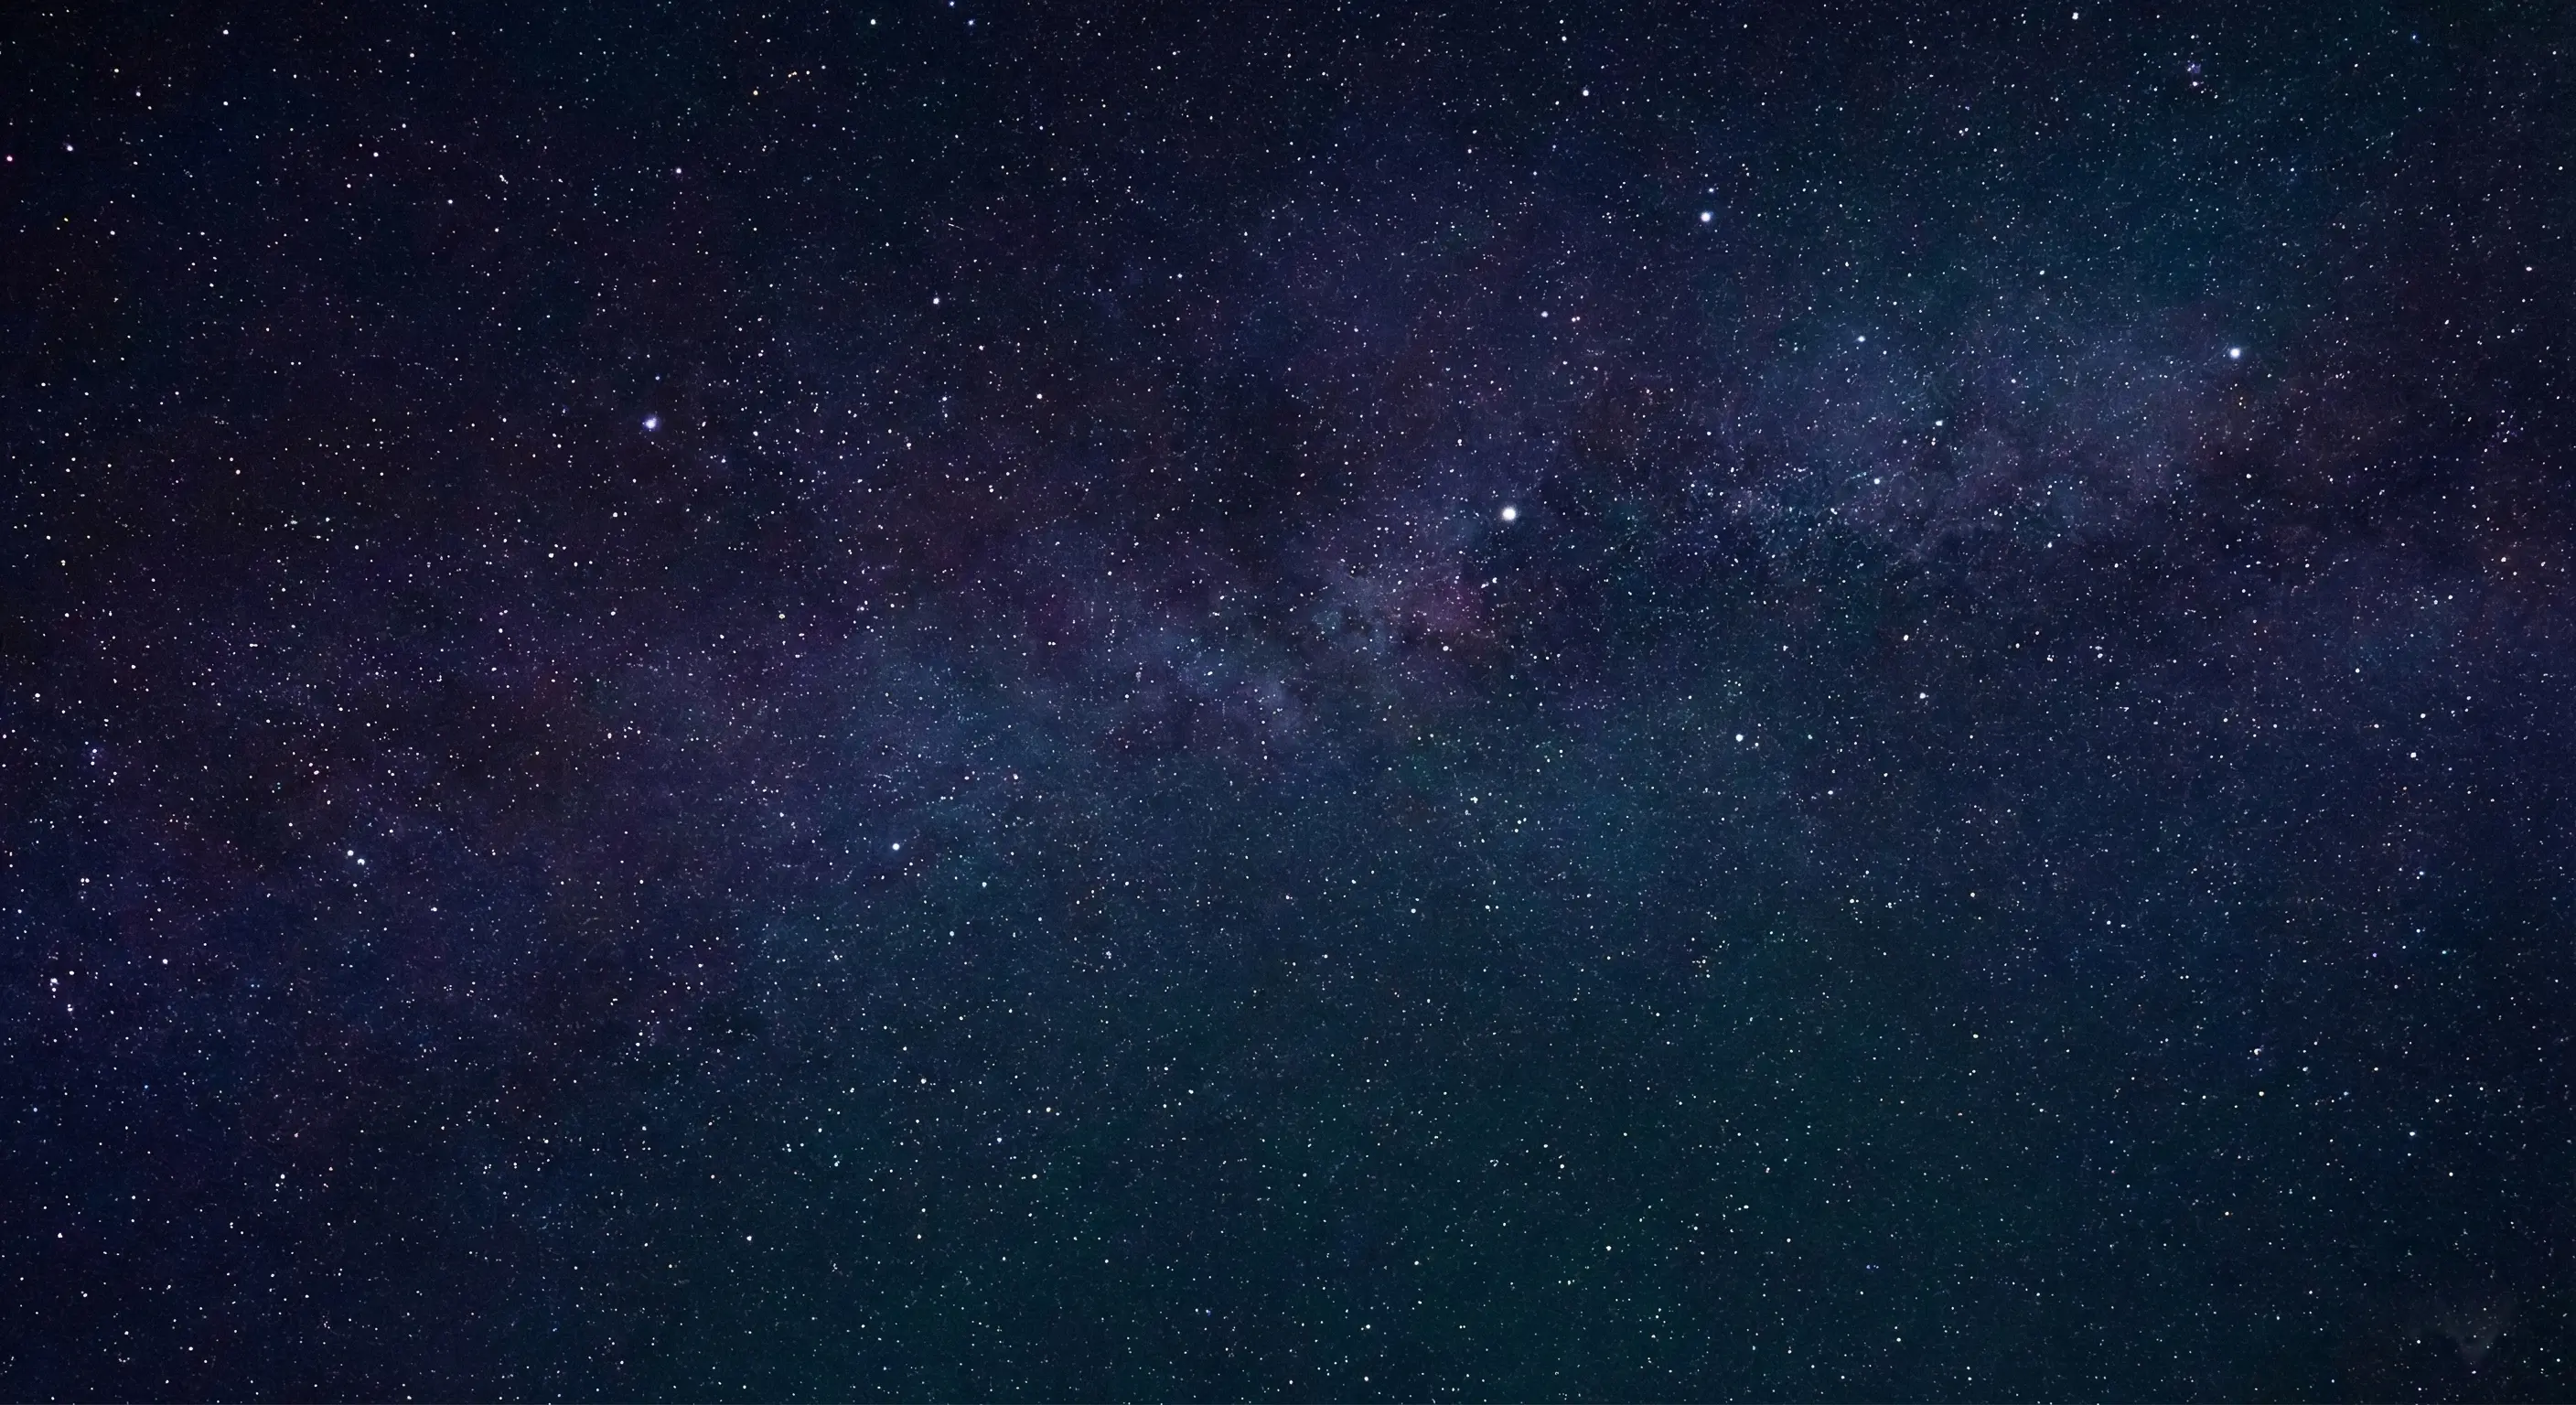
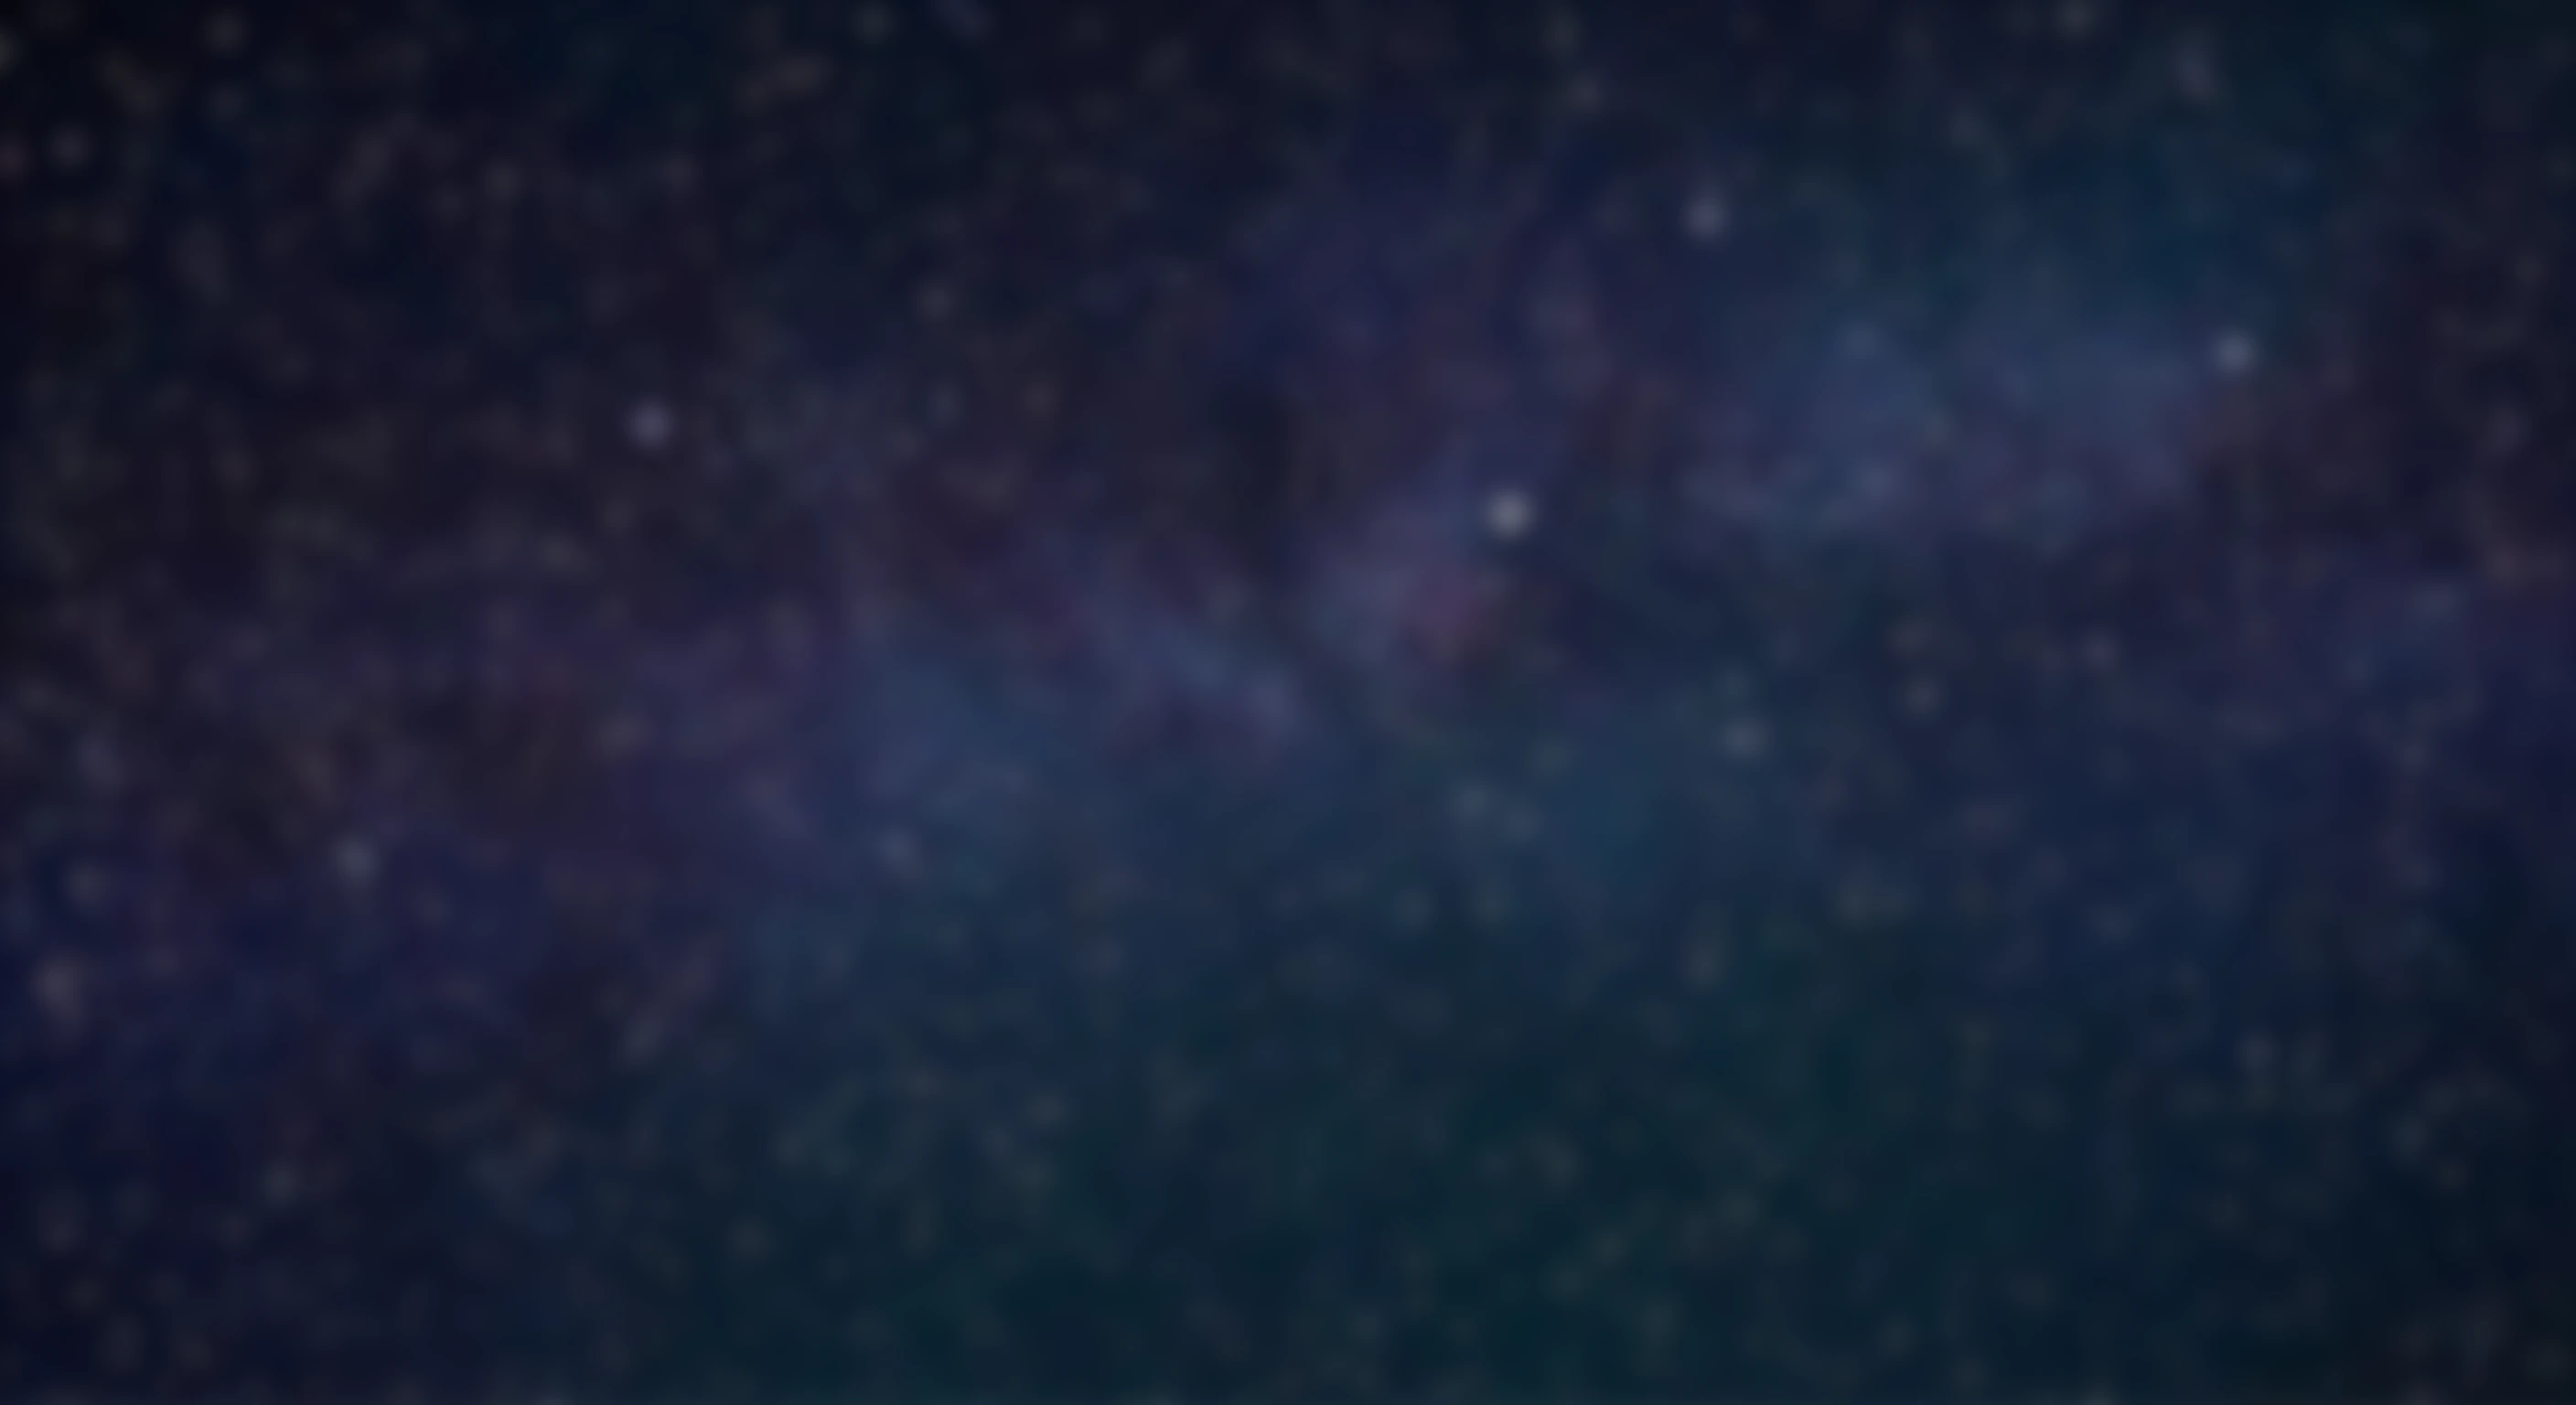
wdwd

diff --git a/index.html b/index.html
@@ -153,7 +153,7 @@
             background-image: url('Grafiki/tloniebo.webp'); 
             background-size: cover;
             background-position: center;
-            filter: blur(10px);
+            
             opacity: 0.5;
             /* Optymalizacja wydajności */
             transform: scale(1.1) translateZ(0);